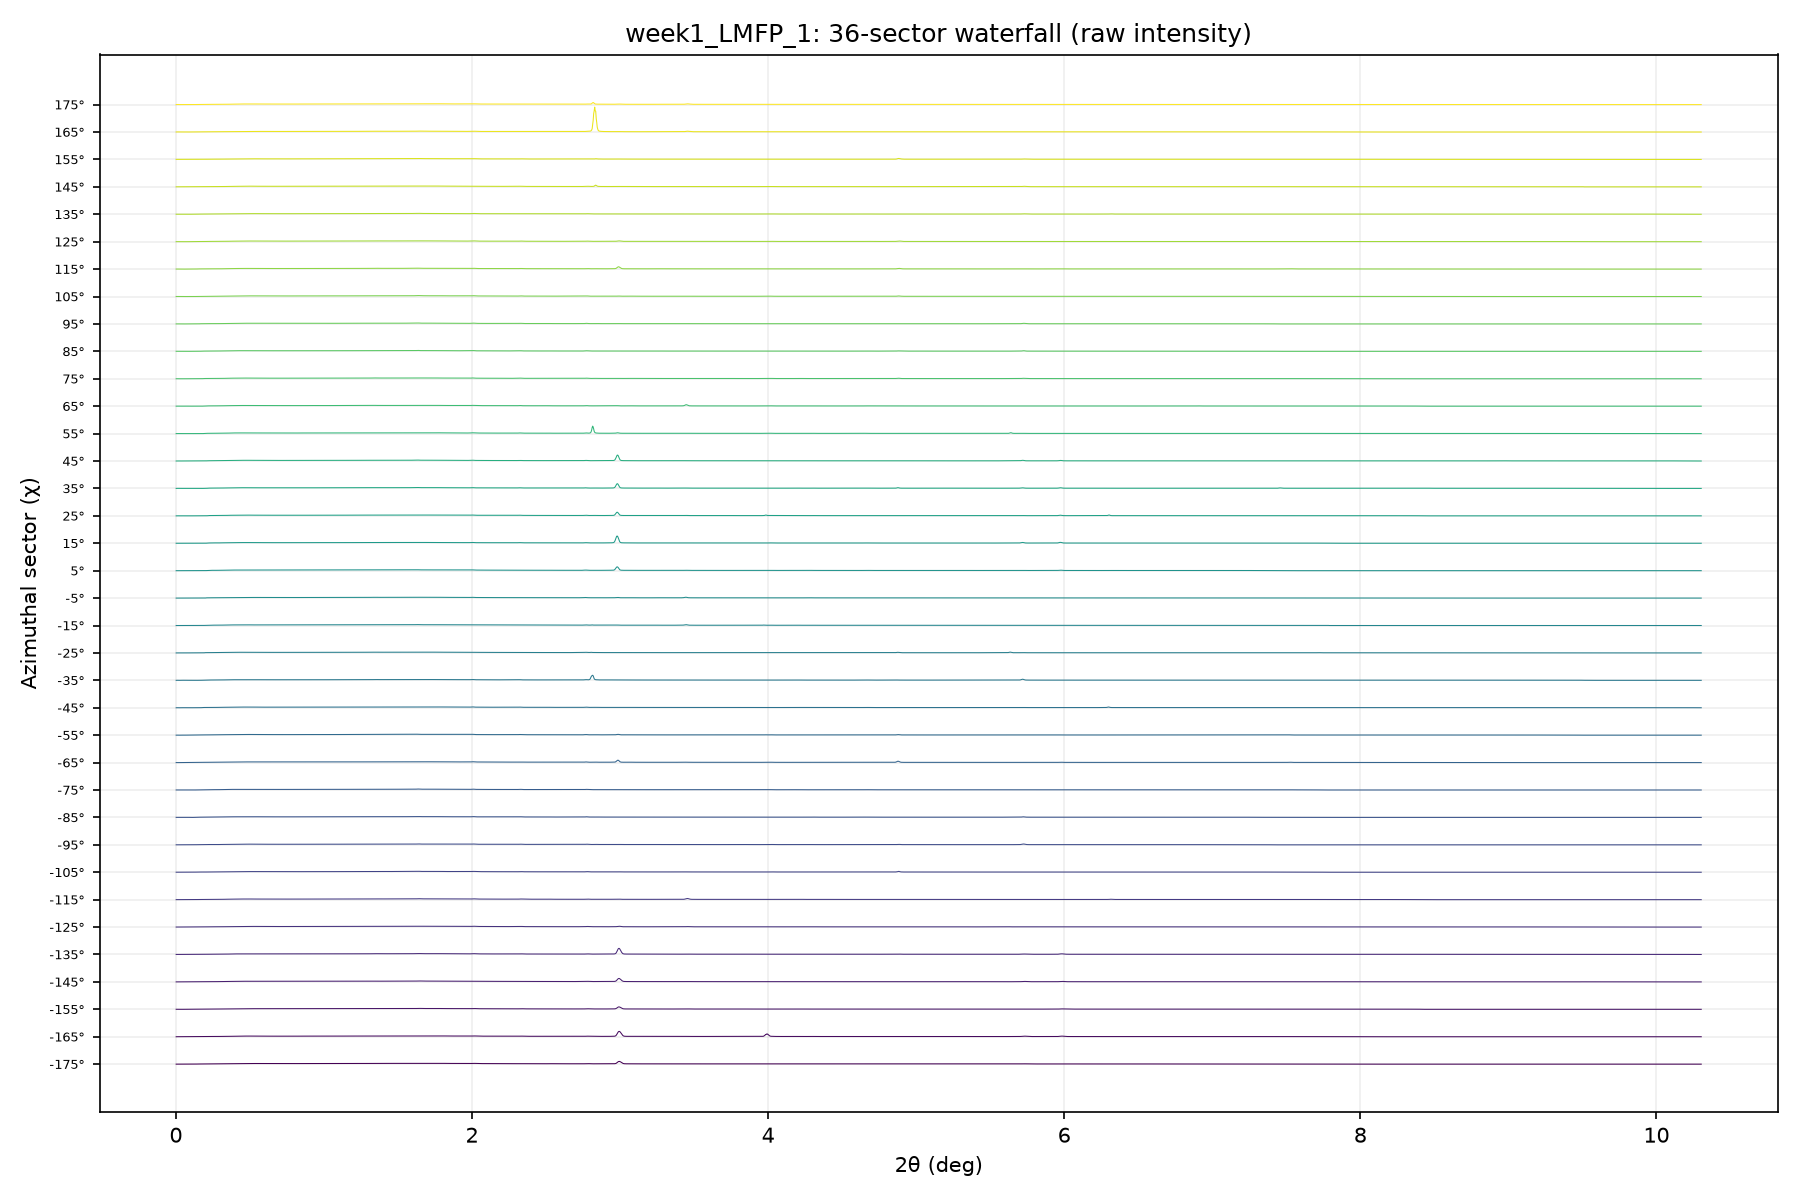
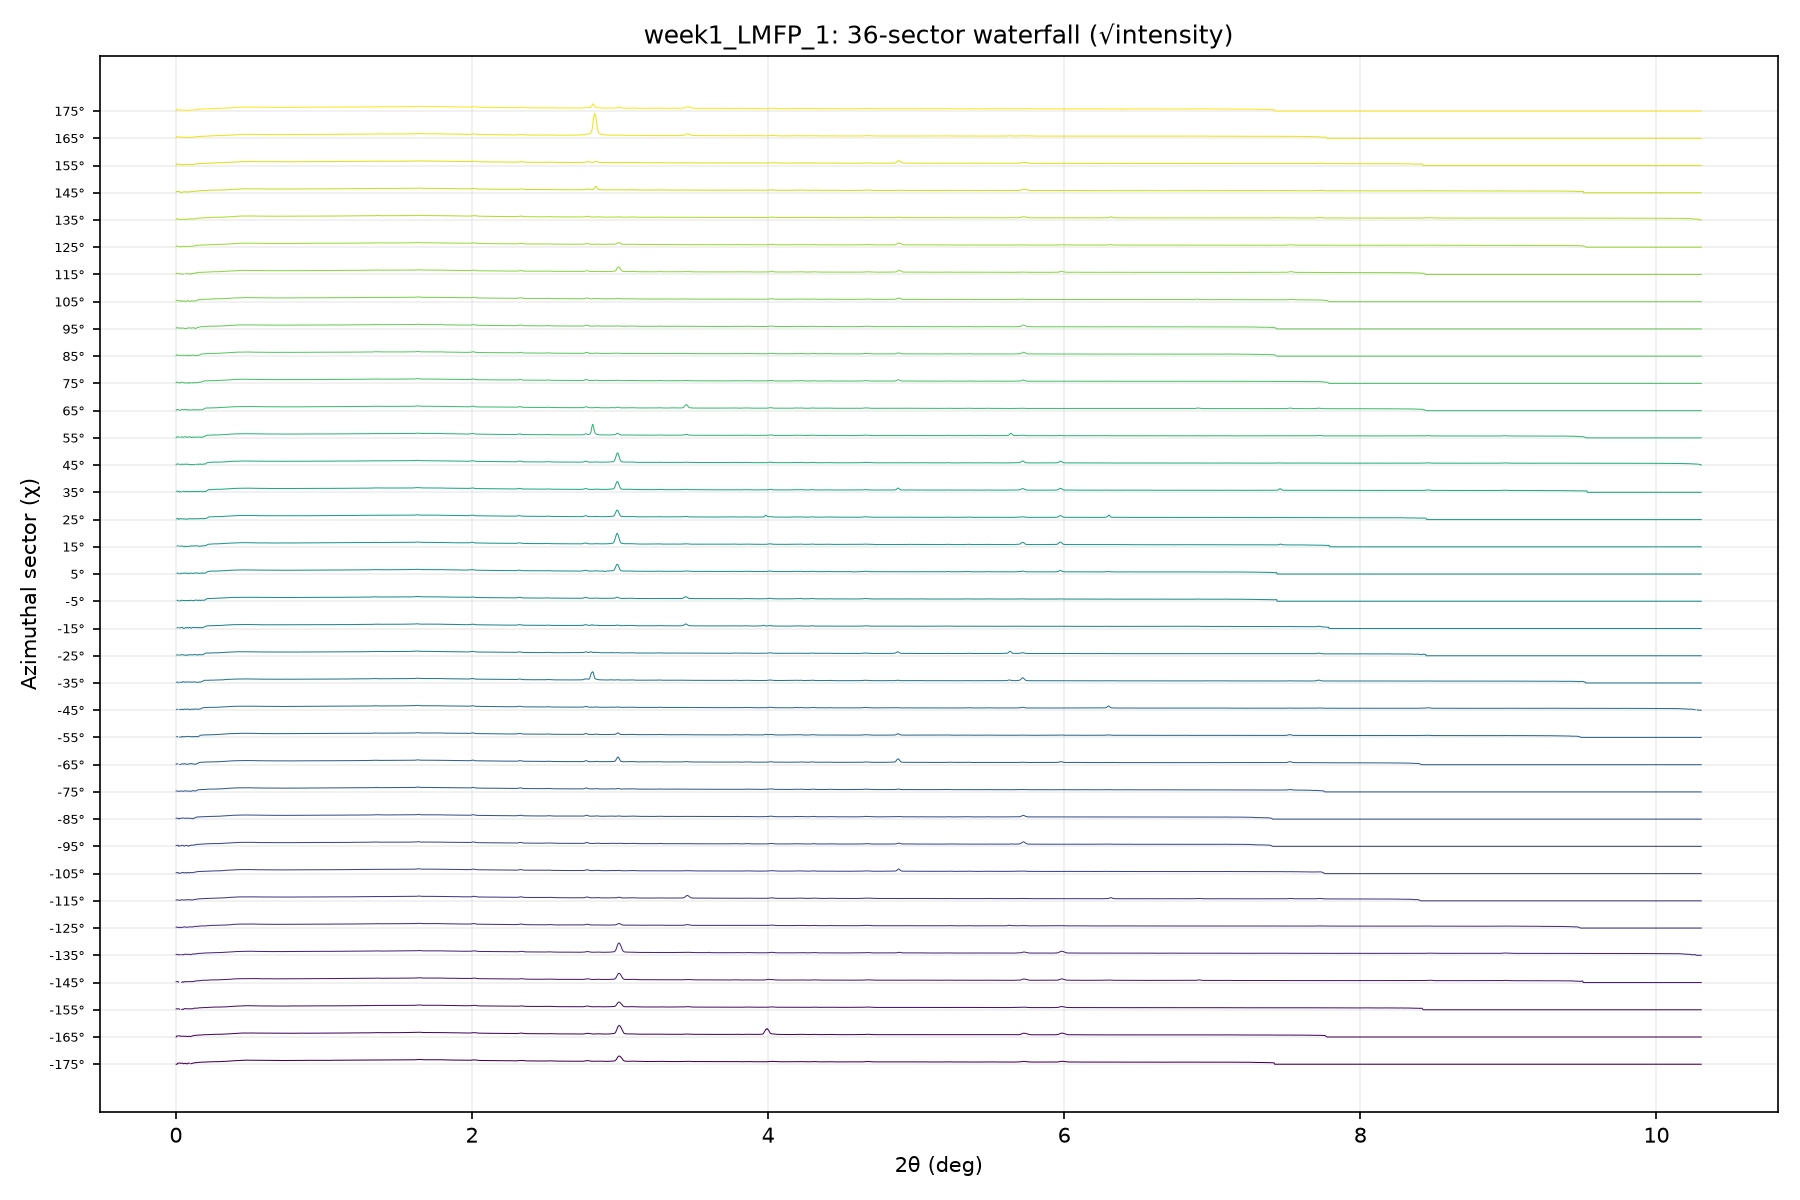
feat: plot raw waterfall with sqrt(intensity) so weak-sector peaks stay visible
Strong/weak sector peak-height ratio drops 63x -> 8x under sqrt scaling;
weak-sector peaks go from 1.6% to 12.6% of their layer height in the
LMFP plot, while intensity non-uniformity remains obvious at a glance.
README wording updated to match (sqrt-intensity / normalized). The 36
per-sector txt files are unchanged.

diff --git a/scripts/sector_waterfall.py b/scripts/sector_waterfall.py
@@ -8,7 +8,7 @@
 
 输出（按样品分文件夹 outputs/{stem}/）：
   - sectors/ 下 36 个两列 txt（2θ, intensity），每个扇区一个
-  - waterfall.png / waterfall_normalized.png（原始强度堆叠 + 各自归一化堆叠）
+  - waterfall.png / waterfall_normalized.png（√强度堆叠 + 各自归一化堆叠）
 
 χ 角约定（pyFAI，实测验证）：χ=0° 沿探测器水平方向（图像 +x 向右），
 逆时针为正（图像上方 = +90°）。integrate2d 从 -180° 分箱，sector_00
@@ -85,18 +85,24 @@ def main() -> None:
                        np.c_[tth, I2d[:, k]], header=header)
         print(f"36 个两列 txt 已保存到: {sec_dir}/")
 
-        # ---- 瀑布图（原始强度：沿 Y 轴错开堆叠）----
-        offset = 1.1 * np.nanmax(I2d)          # 每条曲线占一层，层高略大于最大强度
+        # ---- 瀑布图（√强度：沿 Y 轴错开堆叠）----
+        # 纠错点记录（LMFP 实测）：原始强度动态范围太大（强/弱扇区峰高差 ~20 倍），
+        # 弱扇区曲线被压成贴地的直线、峰形完全看不见。对强度取平方根压缩动态
+        # 范围（20 倍 → ~4.5 倍）：强扇区依然明显更高（强度不一致一目了然），
+        # 弱扇区的峰也能看清。纵轴为 √intensity（任意单位，只用于观察），
+        # 想比峰形峰位用 waterfall_normalized.png，想看真实强度差看统计打印值。
+        sqrt_I = np.sqrt(I2d)
+        offset = 1.1 * np.nanmax(sqrt_I)       # 每条曲线占一层，层高略大于最大√强度
         colors = plt.cm.viridis(np.linspace(0, 1, n))
 
         fig, ax = plt.subplots(figsize=(12, 8))
         for k in range(n):
-            ax.plot(tth, I2d[:, k] + k * offset, color=colors[k], lw=0.5)
+            ax.plot(tth, sqrt_I[:, k] + k * offset, color=colors[k], lw=0.5)
         ax.set_yticks(np.arange(n) * offset)
         ax.set_yticklabels([f"{c:.0f}°" for c in chi], fontsize=6)
         ax.set_xlabel("2θ (deg)")
         ax.set_ylabel("Azimuthal sector (χ)")
-        ax.set_title(f"{stem}: 36-sector waterfall (raw intensity)")
+        ax.set_title(f"{stem}: 36-sector waterfall (√intensity)")
         ax.grid(alpha=0.2)
         fig.tight_layout()
         fig.savefig(outdir / stem / "waterfall.png", dpi=150)

diff --git a/README.md b/README.md
@@ -124,7 +124,7 @@ Integrates 0°–360° with the calibrated geometry (defaults to the reference c
 python scripts/sector_waterfall.py --file data/xxx.tif --n-sectors 36
 ```
 
-Splits the 0°–360° azimuth into N sectors (default 36, one per 10°), integrates each sector separately, and writes per-sector two-column txt files under `outputs/{dataset_name}/sectors/` plus two waterfall plots (raw / normalized) for checking ring uniformity — large grains or preferred orientation show up as intensity concentrated in a few sectors.
+Splits the 0°–360° azimuth into N sectors (default 36, one per 10°), integrates each sector separately, and writes per-sector two-column txt files under `outputs/{dataset_name}/sectors/` plus two waterfall plots (√intensity / normalized) for checking ring uniformity — large grains or preferred orientation show up as intensity concentrated in a few sectors.
 
 </details>
 

diff --git a/docs/README.zh-CN.md b/docs/README.zh-CN.md
@@ -59,7 +59,7 @@ python scripts/integrate_pattern.py --file data/xxx.tif
 python scripts/sector_waterfall.py --file data/xxx.tif --n-sectors 36
 ```
 
-把 0°–360° 方位角分成 N 个扇区分别积分（默认 36 个，每 10° 一个），输出每个扇区的两列 txt（`outputs/{数据名}/sectors/`）+ 两张瀑布图（原始强度 / 归一化），用于检查衍射环的方位均匀性（大晶粒、择优取向会表现为强度集中在少数扇区）。
+把 0°–360° 方位角分成 N 个扇区分别积分（默认 36 个，每 10° 一个），输出每个扇区的两列 txt（`outputs/{数据名}/sectors/`）+ 两张瀑布图（√强度 / 归一化），用于检查衍射环的方位均匀性（大晶粒、择优取向会表现为强度集中在少数扇区）。
 
 ## 项目结构
 
